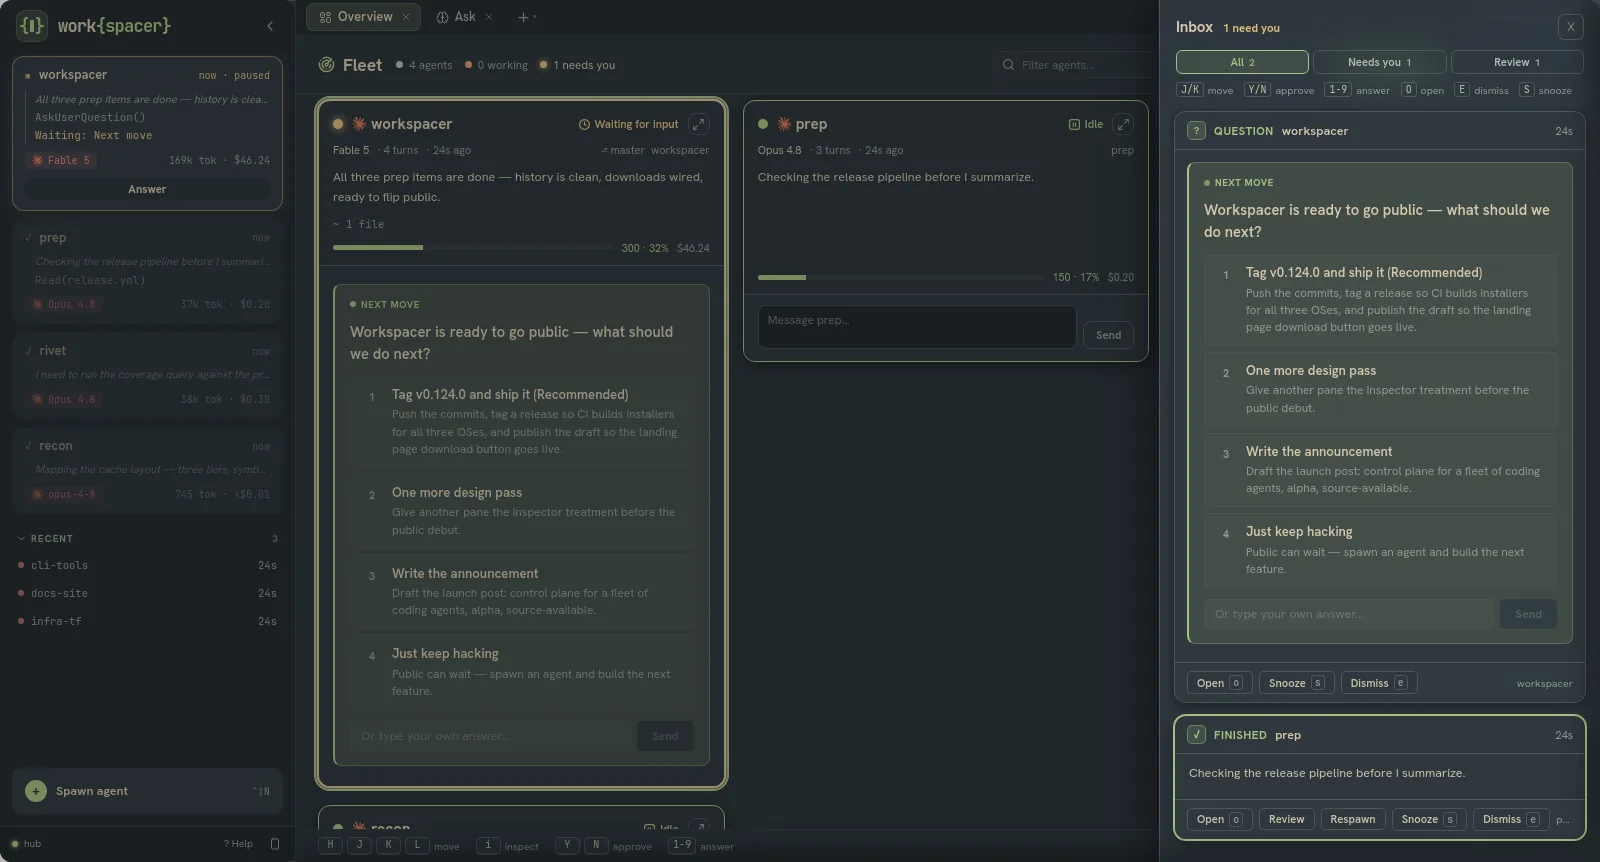
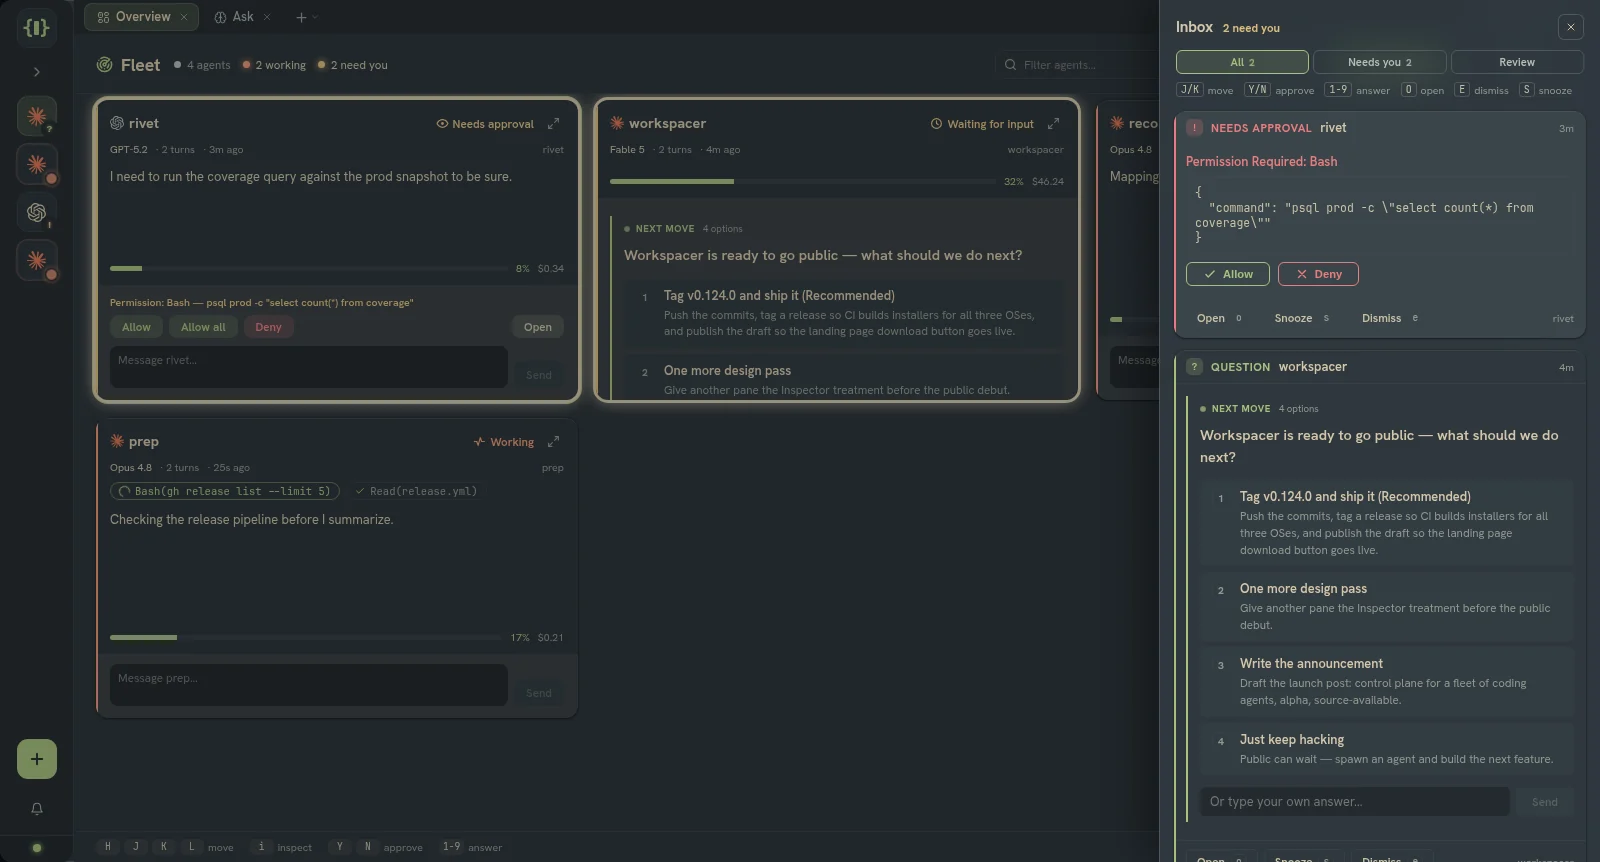
Restage the hero and inbox shots against the new fleet
The landing page was still showing ragged rows, bordered option boxes and clay
model pills — UI that no longer exists.

Both come out of the deck harness rather than the full-app staging rig, which
uses hardcoded ports with port-kill logic and takes the running instance's
daemons with it. To make them usable as marketing shots the harness now renders
the real chrome the way App composes it — NavBar with its leftOffset, the
sidebar as its collapsed rail, the deck inset by both — so the rail is in frame,
which is the point at fleet altitude.

`?inbox=1` docks the Triage Inbox for the second shot. Worth noting what that
one shows: the inbox lists all four options and the free-text answer box, while
the deck card summarizes and states its option count. The truncation the
height cap introduced is a deck-surface trade-off, not a lost affordance.

Also: the harness stub now returns DEFAULT_CONFIG rather than a hand-written
object. ConfigProvider passes the bridge's config straight through without
merging defaults and the chrome reads nested fields directly, so a partial stub
fails one field at a time (navBarHeight, then terminal.shells, ...). And the
page surfaces uncaught errors into #root — a harness that throws renders a
black rectangle, which is indistinguishable from a styling bug in a headless
screenshot run.

agent-gui.webp and ask-question.webp are still stale: both need a ClaudePane
harness, which is a bigger job (2239 lines, xterm at module scope).

diff --git a/apps/desktop/src/renderer/src/harness/deckHarness.tsx b/apps/desktop/src/renderer/src/harness/deckHarness.tsx
@@ -6,10 +6,18 @@
  * Served by the normal Vite dev server: /deck-harness.html
  * Not part of the app build — nothing imports this except the harness page.
  *
- * Sibling of `sidebarHarness.tsx`. The two deliberately keep their own fixtures:
- * the sidebar one is the source for the marketing shots in `landing/shots/`, and
- * coupling them means a tweak made for a design review silently restages
+ * Sibling of `sidebarHarness.tsx`. The two deliberately keep their own fixtures
+ * so a tweak made while reviewing one never silently restages the other's
  * published screenshots.
+ *
+ * THIS HARNESS IS THE SOURCE OF TWO PUBLISHED SHOTS — edit the fixture with that
+ * in mind, and restage both if you change it:
+ *   landing/shots/fleet-deck.webp    ← 1600x862, no query string
+ *   landing/shots/triage-inbox.webp  ← 1600x862, ?inbox=1
+ * Both are captured straight from `/usr/bin/chromium --headless --screenshot`
+ * against `npx vite --port 5199 --strictPort` run from `src/renderer` (a spare
+ * port, so it never collides with a live `dev:renderer` on 5173), then
+ * `magick <png> -quality 86 -define webp:method=6 <webp>`.
  *
  * The fixture exists to exercise the cases that make the deck LOOK busy, which
  * is what this harness is for:
@@ -31,13 +39,24 @@ import '../App.css';
 
 const params = new URLSearchParams(window.location.search);
 
+// The real default config, not a hand-written stub. ConfigProvider passes the
+// bridge's object straight through without merging defaults, and the chrome
+// reads nested fields directly (`config.ui.navBarHeight`, `config.terminal
+// .shells`, ...), so anything less than the real defaults fails one field at a
+// time. This is a static import on purpose — it touches no electronAPI.
+import { DEFAULT_CONFIG } from '../hooks/configDefaults';
+
 // Minimal electronAPI stub BEFORE importing anything that touches it at module
 // scope. Proxy: any method returns a quiet promise; on* subscriptions return an
 // unsubscribe.
 (window as any).electronAPI = new Proxy(
   {
     platform: 'linux',
-    getConfig: async () => ({}),
+    getConfig: async () => ({
+      ...DEFAULT_CONFIG,
+      ui: { ...DEFAULT_CONFIG.ui, mode: 'fleet', theme: params.get('theme') || 'everforest' },
+      panes: { ...DEFAULT_CONFIG.panes, viewLevel: 'fleet' },
+    }),
     reloadConfig: async () => ({}),
     saveConfig: async () => ({}),
     getHubStatus: async () => ({ connected: true }),
@@ -55,10 +74,14 @@ const params = new URLSearchParams(window.location.search);
 
 // Deferred imports so the stub is installed first.
 const { default: FleetDeck } = await import('../components/FleetDeck');
+const { default: InboxDrawer } = await import('../components/InboxDrawer');
+const { default: NavBar } = await import('../components/NavBar');
+const { default: SideBar, SIDEBAR_RAIL_WIDTH } = await import('../components/SideBar');
 const { AttentionProvider } = await import('../contexts/AttentionContext');
 const { NotificationsProvider } = await import('../contexts/NotificationsContext');
 const { ConfigProvider } = await import('../contexts/ConfigContext');
 const { useAttentionFeed } = await import('../hooks/useAttentionFeed');
+const { resolveNavHeight } = await import('../lib/layoutUtils');
 const { resolveTheme, applyTheme } = await import('../themes');
 
 applyTheme(resolveTheme(params.get('theme') || 'everforest'));
@@ -269,7 +292,74 @@ const snapshotBySession: Record<string, any> = {
 
 const noop = () => {};
 
+const statusBySession: Record<string, any> = Object.fromEntries(
+  Object.values(snapshotBySession).map((s: any) => [s.sessionId, s.ambientState]),
+);
+
+const navTabs = [
+  {
+    id: 'tab-overview',
+    title: 'Overview',
+    panes: [{ id: 'pane-overview', type: 'overview' as const, title: 'Overview' }],
+    activePaneId: 'pane-overview',
+  },
+  {
+    id: 'tab-ask',
+    title: 'Ask',
+    panes: [{ id: 'pane-ask', type: 'ask' as const, title: 'Ask' }],
+    activePaneId: 'pane-ask',
+  },
+];
+
+/**
+ * The real fleet chrome, composed the way `App.tsx` does it: NavBar across the
+ * top with `leftOffset`, the sidebar as its collapsed rail, and the deck inset
+ * by both. Reproducing the composition (rather than screenshotting the deck on
+ * its own) is what makes this usable for `landing/shots/` — the rail is also
+ * the point, since at fleet altitude the sidebar collapses.
+ */
 function Harness() {
+  const navHeight = resolveNavHeight(undefined, false);
+  return (
+    <div className="app-root" style={{ height: '100vh' }}>
+      <SideBar
+        agents={agents}
+        activeAgentId="agent-workspacer"
+        statusBySession={statusBySession}
+        snapshotBySession={snapshotBySession}
+        onSelectAgent={noop}
+        onSpawnAgent={noop}
+        onTerminateAgent={noop}
+        onRenameAgent={noop}
+        onToggleCollapse={noop}
+        onToggleHelp={noop}
+        viewLevel="fleet"
+        collapsed
+        recentSessions={[]}
+        onOpenHistory={noop}
+      />
+      <NavBar
+        tabs={navTabs as any}
+        activeTabId="tab-overview"
+        onTabClick={noop}
+        onAddTab={noop}
+        onCloseTab={noop}
+        onRenameTab={noop}
+        onSplitTab={noop}
+        onMoveTab={noop}
+        leftOffset={SIDEBAR_RAIL_WIDTH}
+        cwd="/home/djtouchette/Work/worky/workspacer"
+      />
+      <FleetDeck top={navHeight} left={SIDEBAR_RAIL_WIDTH} />
+      {/* `?inbox=1` docks the Triage Inbox over the deck. It is propless — it
+          reads inboxOpen and the feed off AttentionContext — so the only thing
+          that opens it is the provider below. */}
+      <InboxDrawer />
+    </div>
+  );
+}
+
+function Root() {
   const attention = useAttentionFeed(snapshotBySession, agents);
   return (
     <ConfigProvider>
@@ -278,7 +368,7 @@ function Harness() {
           agents={agents}
           activeAgentId="agent-workspacer"
           snapshotBySession={snapshotBySession}
-          inboxOpen={false}
+          inboxOpen={params.get('inbox') === '1'}
           openInbox={noop}
           closeInbox={noop}
           viewLevel="fleet"
@@ -286,16 +376,11 @@ function Harness() {
           onOpenAgent={noop}
           attention={attention}
         >
-          {/* top/left mimic the navbar + collapsed rail the deck sits inside.
-              74 is SIDEBAR_RAIL_WIDTH — at fleet altitude the sidebar collapses,
-              which is the layout this harness is here to show. */}
-          <div className="app-root" style={{ height: '100vh' }}>
-            <FleetDeck top={0} left={74} />
-          </div>
+          <Harness />
         </AttentionProvider>
       </NotificationsProvider>
     </ConfigProvider>
   );
 }
 
-ReactDOM.createRoot(document.getElementById('root')!).render(<Harness />);
+ReactDOM.createRoot(document.getElementById('root')!).render(<Root />);

diff --git a/apps/desktop/src/renderer/deck-harness.html b/apps/desktop/src/renderer/deck-harness.html
@@ -16,6 +16,33 @@
   </head>
   <body>
     <div id="root"></div>
+    <!-- A harness that throws renders a black rectangle, which looks exactly
+         like a styling bug. Surface the error instead — headless screenshot
+         runs have no console to read. -->
+    <script>
+      window.addEventListener('error', function (e) {
+        var r = document.getElementById('root');
+        if (r && !r.childElementCount) {
+          r.innerHTML =
+            '<pre style="color:#ff8080;font:12px/1.5 monospace;padding:20px;white-space:pre-wrap">' +
+            'HARNESS ERROR\n\n' +
+            (e.message || '') +
+            '\n\n' +
+            ((e.error && e.error.stack) || '') +
+            '</pre>';
+        }
+      });
+      window.addEventListener('unhandledrejection', function (e) {
+        var r = document.getElementById('root');
+        if (r && !r.childElementCount) {
+          r.innerHTML =
+            '<pre style="color:#ff8080;font:12px/1.5 monospace;padding:20px;white-space:pre-wrap">' +
+            'HARNESS PROMISE REJECTION\n\n' +
+            ((e.reason && (e.reason.stack || e.reason.message)) || String(e.reason)) +
+            '</pre>';
+        }
+      });
+    </script>
     <script type="module" src="/src/harness/deckHarness.tsx"></script>
   </body>
 </html>
